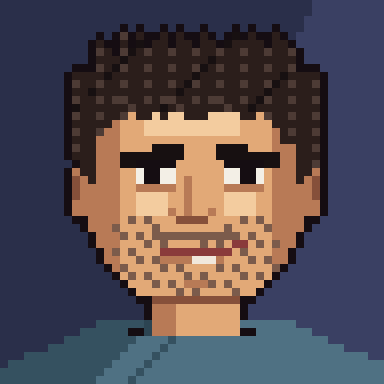
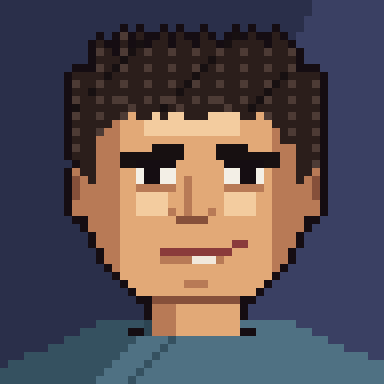
Duke: remove beard/stubble

Changed region(s): [[0.2812, 0.5625, 0.75, 0.7812]]

diff --git a/src/characters.js b/src/characters.js
@@ -6,7 +6,7 @@ const PAL = {
   shirt: '#4f7183', shirtSh: '#355160', collar: '#2c4452', bg1: '#2a2f4a', bg2: '#3a4063',
 };
 
-// GYL: man with short, swept dark hair, strong straight brows, light stubble and a calm half-smirk.
+// DUKE (was Gyl): man with short, swept dark hair, strong straight brows, clean-shaven, calm half-smirk.
 export function paintAce(cv, st = {}) {
   const N = 48; cv.width = N; cv.height = N;
   const g = cv.getContext('2d'); g.imageSmoothingEnabled = false;
@@ -51,9 +51,7 @@ export function paintAce(cv, st = {}) {
   }
   // nose
   px(23, 22, 'skinSh', 1, 6); px(22, 27, 'skinDk', 4, 1); px(21, 26, 'skinSh', 1, 1); px(26, 26, 'skinSh', 1, 1);
-  // stubble: dithered across jaw, chin and upper lip
-  for (let y = 27; y <= 36; y++) for (let x = 14; x <= 34; x++) if (((x * 3 + y * 5) % 7 < 2) && inEll(x, y, 24, 24, 13.5, 14) && (y > 28 || Math.abs(x - 24) > 3)) px(x, y, 'stub');
-  px(19, 29, 'stub', 11, 1);
+  // clean-shaven: no beard or stubble
   // mouth: calm half-smirk (right corner up)
   px(20, 31, 'mouth', 9, 1); px(29, 30, 'mouth', 2, 1); px(20, 32, 'skinSh', 8, 1); px(24, 32, 'tooth', 3, 1);
   px(23, 35, 'skinSh', 3, 1);

diff --git a/src/version.js b/src/version.js
@@ -1,2 +1,2 @@
 // generated by tools/stamp.mjs
-export const BUILD = { n: 80, time: '2026-10-14T11:34:17.724Z' };
+export const BUILD = { n: 81, time: '2026-10-14T11:35:22.362Z' };
